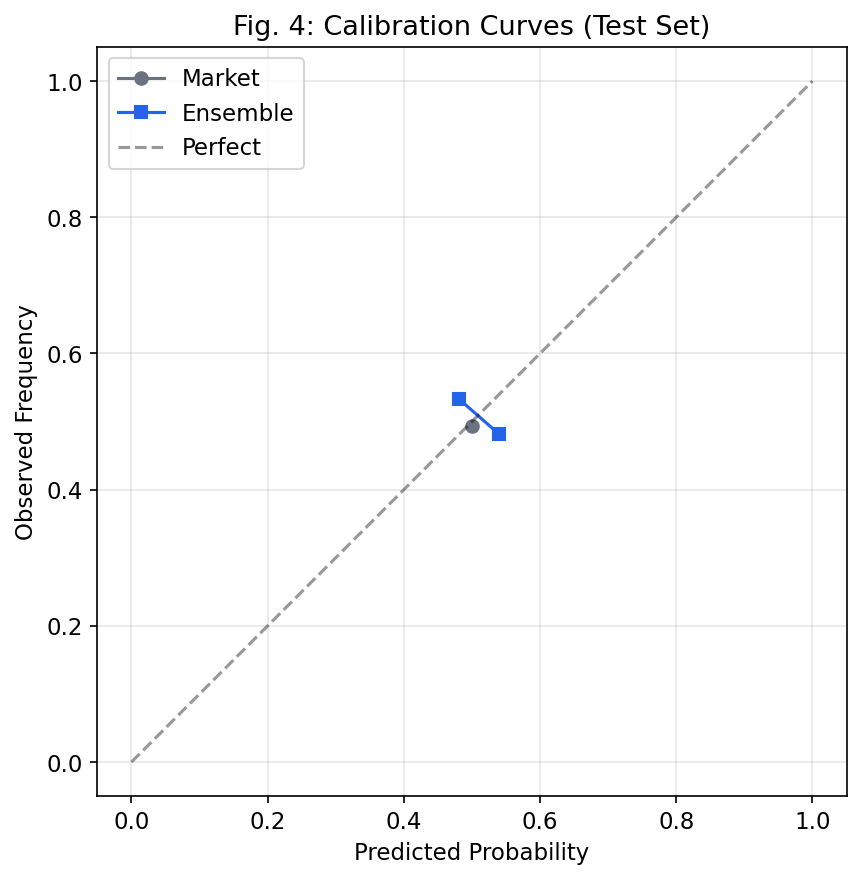
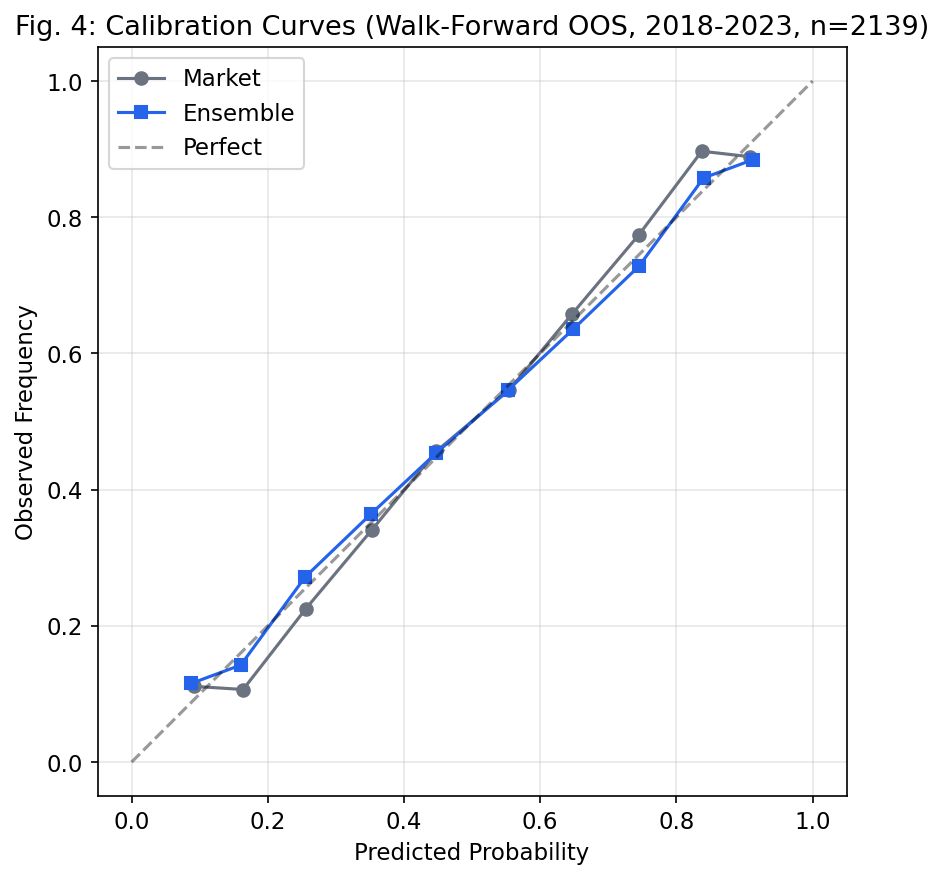
Fix calibration chart: use walk-forward OOS predictions (n=2139)

diff --git a/generate_charts.py b/generate_charts.py
@@ -159,20 +159,54 @@ plt.close(fig)
 print("  model_comparison.png")
 
 
-# -- 5. Calibration comparison (market vs ensemble) ------------------------
+# -- 5. Calibration from walk-forward OOS predictions ----------------------
+# Collect OOS predictions across all backtest years (not just bets)
+from model import fit_model_bundle
+
+oos_probs_all = []
+oos_market_all = []
+oos_y_all = []
+
+df_odds = df[df["odds_a"].notna() & df["odds_b"].notna()].copy()
+for year in range(2018, 2024):
+    train_data = df_odds[df_odds["year"] <= year - 3].copy()
+    cal_data = df_odds[(df_odds["year"] >= year - 2) & (df_odds["year"] <= year - 1)].copy()
+    test_data = df_odds[df_odds["year"] == year].copy()
+
+    if len(train_data) < 100 or len(cal_data) < 40 or len(test_data) == 0:
+        continue
+
+    pred, _ = fit_model_bundle(train_data, cal_data)
+    probs_a = pred.predict_proba(test_data[FEATURE_COLS])[:, 1]
+
+    # Use both sides: fighter_a prob and fighter_b prob (1 - prob_a)
+    # This gives us the full probability range 0-1
+    oos_probs_all.extend(probs_a.tolist())
+    oos_probs_all.extend((1 - probs_a).tolist())
+    market_p = test_data["market_prob"].to_numpy()
+    oos_market_all.extend(market_p.tolist())
+    oos_market_all.extend((1 - market_p).tolist())
+    y = test_data["a_wins"].to_numpy()
+    oos_y_all.extend(y.tolist())
+    oos_y_all.extend((1 - y).tolist())
+
+oos_probs_all = np.array(oos_probs_all)
+oos_market_all = np.array(oos_market_all)
+oos_y_all = np.array(oos_y_all)
+
 fig, ax = plt.subplots(figsize=(6, 6))
 
-for probs, label, color, marker in [
-    (market_eval, "Market", "#6b7280", "o"),
-    (ens_eval, "Ensemble", "#2563eb", "s"),
+for probs_cal, label, color, marker in [
+    (oos_market_all, "Market", "#6b7280", "o"),
+    (oos_probs_all, "Ensemble", "#2563eb", "s"),
 ]:
-    frac_pos, mean_pred = calibration_curve(y_eval, _clip_probs(probs), n_bins=10)
+    frac_pos, mean_pred = calibration_curve(oos_y_all, _clip_probs(probs_cal), n_bins=10)
     ax.plot(mean_pred, frac_pos, f"{marker}-", label=label, color=color, markersize=6)
 
 ax.plot([0, 1], [0, 1], "k--", alpha=0.4, label="Perfect")
 ax.set_xlabel("Predicted Probability")
 ax.set_ylabel("Observed Frequency")
-ax.set_title(f"Fig. 4: Calibration Curves ({eval_label} Set)")
+ax.set_title(f"Fig. 4: Calibration Curves (Walk-Forward OOS, 2018-2023, n={len(oos_y_all)//2})")
 ax.legend(loc="upper left")
 ax.set_aspect("equal")
 fig.tight_layout()
